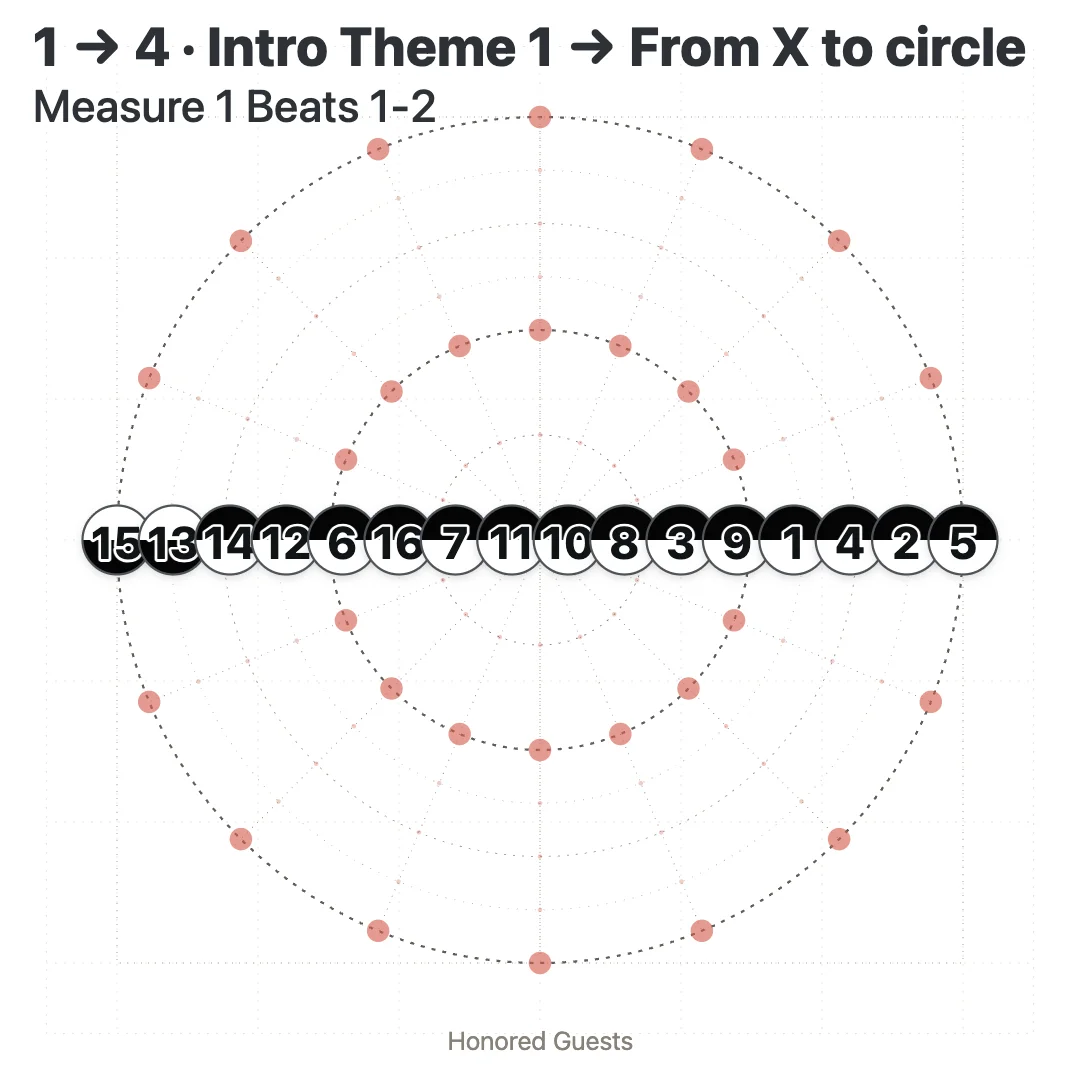
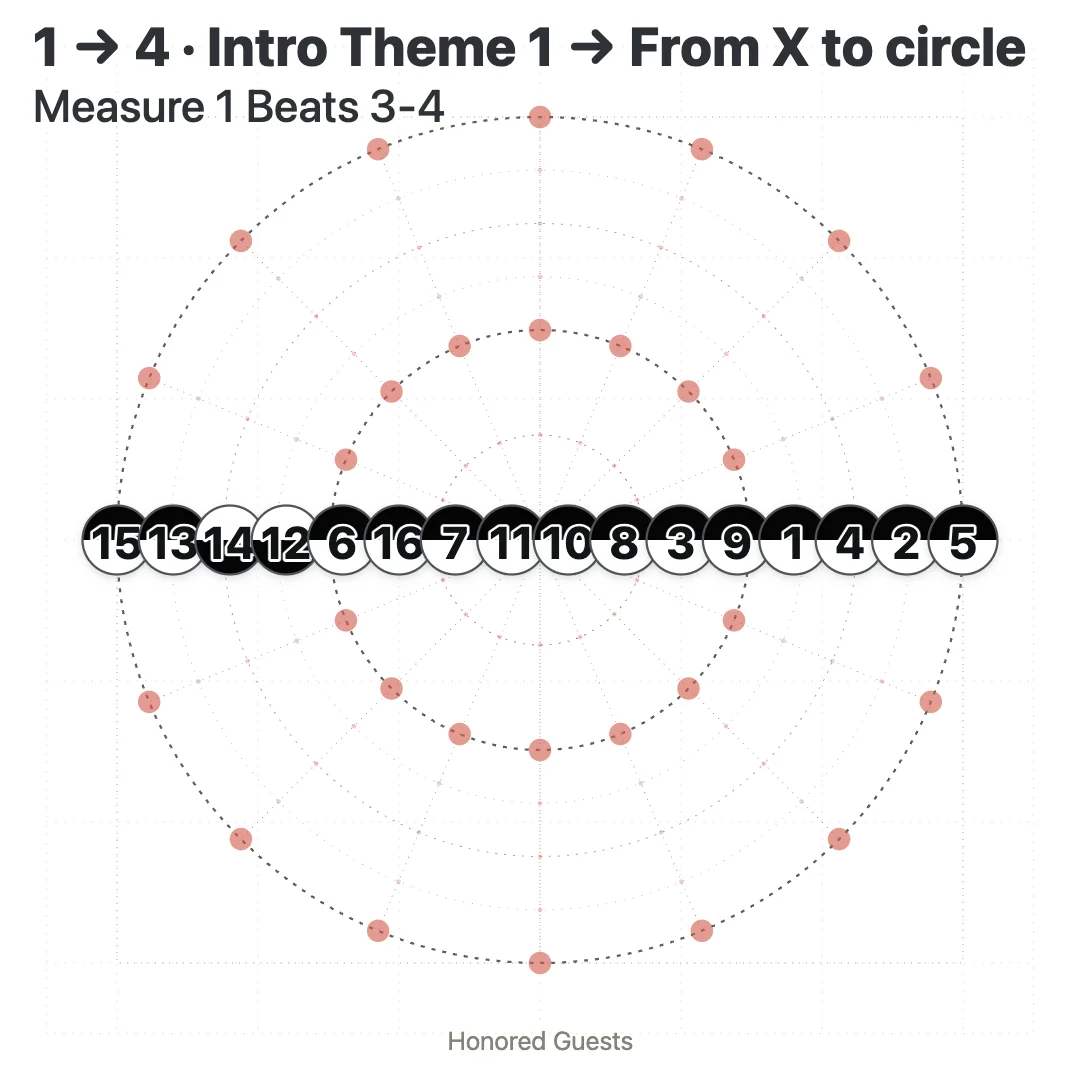
Hold Intro and 2 Lines on the ¾ ring through Measure 4-6
Measure 4-6 is now one frame matching Measure 3 instead of a hold
plus a step back in.

Changed region(s): [[0.0611, 0.4583, 0.3056, 0.55], [0.3361, 0.0611, 0.4278, 0.1222]]

diff --git a/app/stories.js b/app/stories.js
@@ -68,137 +68,131 @@ window.PLAYER_MANIFEST = {
     {
      "src": "frames/line-new/10.webp",
      "title": "1 → 4 · Intro Theme 1 → From X to circle",
-     "subtitle": "Measure 4-6",
+     "subtitle": "Measure 7",
      "note": ""
     },
     {
      "src": "frames/line-new/11.webp",
      "title": "1 → 4 · Intro Theme 1 → From X to circle",
-     "subtitle": "Measure 7",
+     "subtitle": "Measure 8",
      "note": ""
     },
     {
      "src": "frames/line-new/12.webp",
      "title": "1 → 4 · Intro Theme 1 → From X to circle",
-     "subtitle": "Measure 8",
+     "subtitle": "Measure 9-13",
      "note": ""
     },
     {
      "src": "frames/line-new/13.webp",
      "title": "1 → 4 · Intro Theme 1 → From X to circle",
-     "subtitle": "Measure 9-13",
+     "subtitle": "Measure 14",
      "note": ""
     },
     {
      "src": "frames/line-new/14.webp",
      "title": "1 → 4 · Intro Theme 1 → From X to circle",
-     "subtitle": "Measure 14",
+     "subtitle": "Measure 15",
      "note": ""
     },
     {
      "src": "frames/line-new/15.webp",
      "title": "1 → 4 · Intro Theme 1 → From X to circle",
-     "subtitle": "Measure 15",
+     "subtitle": "Measure 16",
      "note": ""
     },
     {
      "src": "frames/line-new/16.webp",
      "title": "1 → 4 · Intro Theme 1 → From X to circle",
-     "subtitle": "Measure 16",
+     "subtitle": "Measure 1 Beats 1-2",
      "note": ""
     },
     {
      "src": "frames/line-new/17.webp",
      "title": "1 → 4 · Intro Theme 1 → From X to circle",
-     "subtitle": "Measure 1 Beats 1-2",
+     "subtitle": "Measure 1 Beats 3-4",
      "note": ""
     },
     {
      "src": "frames/line-new/18.webp",
      "title": "1 → 4 · Intro Theme 1 → From X to circle",
-     "subtitle": "Measure 1 Beats 3-4",
+     "subtitle": "Measure 2 Beats 1-2",
      "note": ""
     },
     {
      "src": "frames/line-new/19.webp",
      "title": "1 → 4 · Intro Theme 1 → From X to circle",
-     "subtitle": "Measure 2 Beats 1-2",
+     "subtitle": "Measure 2 Beats 3-4",
      "note": ""
     },
     {
      "src": "frames/line-new/20.webp",
      "title": "1 → 4 · Intro Theme 1 → From X to circle",
-     "subtitle": "Measure 2 Beats 3-4",
+     "subtitle": "Measure 3 Beats 1-2",
      "note": ""
     },
     {
      "src": "frames/line-new/21.webp",
      "title": "1 → 4 · Intro Theme 1 → From X to circle",
-     "subtitle": "Measure 3 Beats 1-2",
+     "subtitle": "Measure 3 Beats 3-4",
      "note": ""
     },
     {
      "src": "frames/line-new/22.webp",
      "title": "1 → 4 · Intro Theme 1 → From X to circle",
-     "subtitle": "Measure 3 Beats 3-4",
+     "subtitle": "Measure 4 Beats 1-2",
      "note": ""
     },
     {
      "src": "frames/line-new/23.webp",
      "title": "1 → 4 · Intro Theme 1 → From X to circle",
-     "subtitle": "Measure 4 Beats 1-2",
+     "subtitle": "Measure 4 Beats 3-4",
      "note": ""
     },
     {
      "src": "frames/line-new/24.webp",
      "title": "1 → 4 · Intro Theme 1 → From X to circle",
-     "subtitle": "Measure 4 Beats 3-4",
+     "subtitle": "Measure 1 (X)",
      "note": ""
     },
     {
      "src": "frames/line-new/25.webp",
      "title": "1 → 4 · Intro Theme 1 → From X to circle",
-     "subtitle": "Measure 1 (X)",
+     "subtitle": "Measure 2 (X)",
      "note": ""
     },
     {
      "src": "frames/line-new/26.webp",
      "title": "1 → 4 · Intro Theme 1 → From X to circle",
-     "subtitle": "Measure 2 (X)",
+     "subtitle": "Measure 3-4",
      "note": ""
     },
     {
      "src": "frames/line-new/27.webp",
      "title": "1 → 4 · Intro Theme 1 → From X to circle",
-     "subtitle": "Measure 3-4",
+     "subtitle": "Measure 5",
      "note": ""
     },
     {
      "src": "frames/line-new/28.webp",
      "title": "1 → 4 · Intro Theme 1 → From X to circle",
-     "subtitle": "Measure 5",
+     "subtitle": "Measure 6",
      "note": ""
     },
     {
      "src": "frames/line-new/29.webp",
      "title": "1 → 4 · Intro Theme 1 → From X to circle",
-     "subtitle": "Measure 6",
-     "note": ""
-    },
-    {
-     "src": "frames/line-new/30.webp",
-     "title": "1 → 4 · Intro Theme 1 → From X to circle",
      "subtitle": "Measure 7-8",
      "note": "Dip cascade from 12,\ncounterclockwise:\n12 → 13 → 8 → 9 →\n4 → 5 → 10 → 3 →\n1 → 2 → 7 → 6 →\n14 → 15 → 11 → 16"
     },
     {
-     "src": "frames/line-new/31.webp",
+     "src": "frames/line-new/30.webp",
      "title": "1 → 4 · Intro Theme 1 → From X to circle",
      "subtitle": "F escape 1 tape",
      "note": ""
     },
     {
-     "src": "frames/line-new/32.webp",
+     "src": "frames/line-new/31.webp",
      "title": "1 → 4 · Intro Theme 1 → From X to circle",
      "subtitle": "Hearts Adrift start",
      "note": ""

diff --git a/index.html b/index.html
@@ -3449,11 +3449,9 @@
         { subtitle: "Measure 2", items: unfoldFrame(1) },
         // Lines out to the ¾ ring.
         { subtitle: "Measure 3", items: podFrame(RING_RADII.threeQuarter) },
-        // Measure 4-6 starts by holding the ¾ ring (the same spots as Measure 3), then the lines come
-        // back in to the overlap in even steps.
+        // Measure 4-6 holds the ¾ ring (the same spots as Measure 3).
         { subtitle: "Measure 4-6", items: podFrame(RING_RADII.threeQuarter) },
-        { subtitle: "Measure 4-6", items: podFrame((RING_RADII.threeQuarter * 2) / 3) },
-        // Closer in, still in pods.
+        // Back in toward the overlap, still in pods.
         { subtitle: "Measure 7", items: podFrame(RING_RADII.threeQuarter / 3) },
         // Overlap.
         { subtitle: "Measure 8", items: podFrame(0) },
